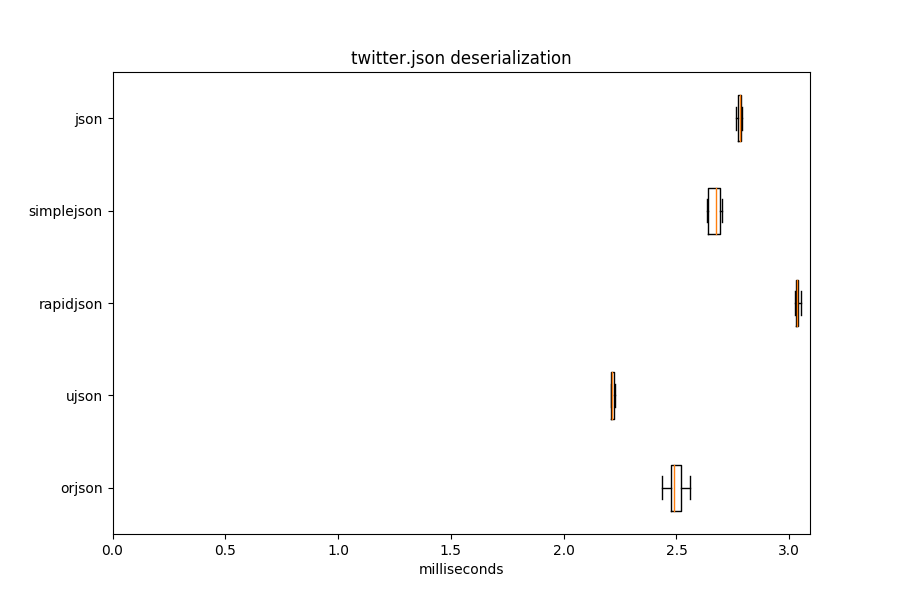
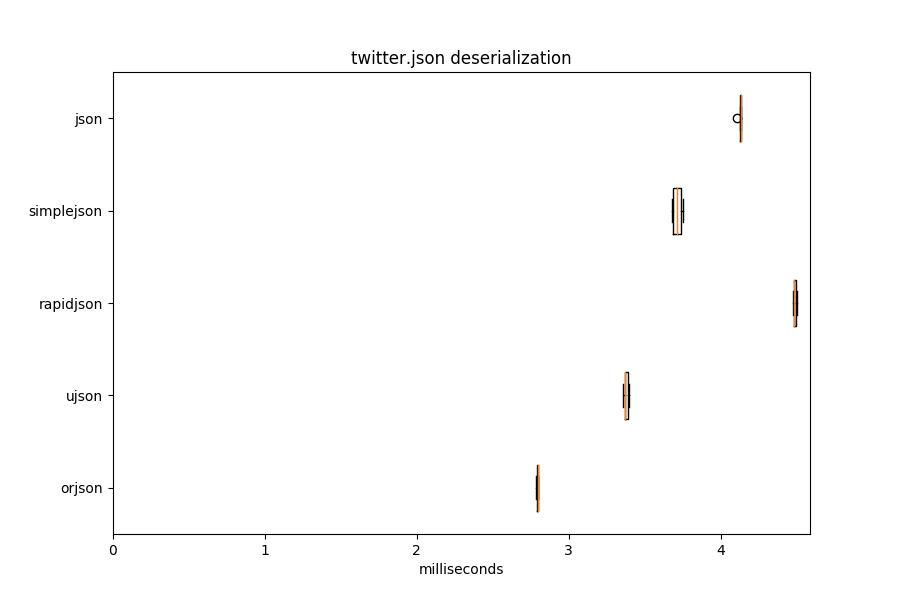
2.0.10

diff --git a/README.md b/README.md
@@ -4,9 +4,9 @@ orjson is a fast, correct JSON library for Python. It benchmarks as the
 fastest Python library for JSON and has comprehensive unit, integration, and
 interoperability tests.
 
-Its serialization performance is 2x to 3x the nearest
+Its serialization performance is 2.5x to 9.5x the nearest
 other library and 4x to 12x the standard library. Its deserialization
-performance is 0.9x to 1.1x the nearest other library and 1.1x to 2x
+performance is 1.2x to 1.3x the nearest other library and 1.4x to 2x
 the standard library.
 
 It differs in behavior from other Python JSON libraries in supporting
@@ -93,16 +93,6 @@ It raises `JSONEncodeError`  if a `tzinfo` on a datetime object is incorrect.
 `JSONEncodeError` is a subclass of `TypeError`. This is for compatibility
 with the standard library.
 
-
-```python
-import orjson
-
-try:
-    val = orjson.dumps(...)
-except orjson.JSONEncodeError:
-    raise
-```
-
 To serialize arbitrary types, specify `default` as a callable that returns
 a supported type. `default` may be a function, lambda, or callable class
 instance.
@@ -150,34 +140,6 @@ which the standard library allows, but is not valid JSON.
 `JSONDecodeError` is a subclass of `ValueError`. This is for
 compatibility with the standard library.
 
-```python
-import orjson
-
-try:
-    val = orjson.loads(...)
-except orjson.JSONDecodeError:
-    raise
-```
-
-### Comparison
-
-There are slight differences in output between libraries. The differences
-are not an issue for interoperability. Note orjson returns bytes. Its output
-is slightly smaller as well.
-
-```python
->>> import orjson, ujson, rapidjson, json
->>> data = {'bool': True, '🐈':'哈哈', 'int': 9223372036854775807, 'float': 1.337e+40}
->>> orjson.dumps(data)
-b'{"bool":true,"\xf0\x9f\x90\x88":"\xe5\x93\x88\xe5\x93\x88","int":9223372036854775807,"float":1.337e40}'
->>> ujson.dumps(data)
-'{"bool":true,"\\ud83d\\udc08":"\\u54c8\\u54c8","int":9223372036854775807,"float":1.337000000000000e+40}'
->>> rapidjson.dumps(data)
-'{"bool":true,"\\uD83D\\uDC08":"\\u54C8\\u54C8","int":9223372036854775807,"float":1.337e+40}'
->>> json.dumps(data)
-'{"bool": true, "\\ud83d\\udc08": "\\u54c8\\u54c8", "int": 9223372036854775807, "float": 1.337e+40}'
-```
-
 ### datetime
 
 orjson serializes `datetime.datetime` objects to
@@ -197,13 +159,13 @@ ISO 8601.
 ```python
 >>> import orjson, datetime, pendulum
 >>> orjson.dumps(
-    datetime.datetime.fromtimestamp(4123518902).replace(tzinfo=datetime.timezone.utc)
-)
-b'"2100-09-01T21:55:02+00:00"'
->>> orjson.dumps(
     datetime.datetime(2018, 12, 1, 2, 3, 4, 9, tzinfo=pendulum.timezone('Australia/Adelaide'))
 )
 b'"2018-12-01T02:03:04.000009+10:30"'
+>>> orjson.dumps(
+    datetime.datetime.fromtimestamp(4123518902).replace(tzinfo=datetime.timezone.utc)
+)
+b'"2100-09-01T21:55:02+00:00"'
 >>> orjson.dumps(
     datetime.datetime.fromtimestamp(4123518902)
 )
@@ -336,6 +298,8 @@ strings and arrays of integers, indented.
 * canada.json, 2.2MiB, coordinates of the Canadian border in GeoJSON
 format, containing floats and arrays, indented.
 
+### Latency
+
 ![alt text](doc/twitter_serialization.png "twitter.json serialization")
 ![alt text](doc/twitter_deserialization.png "twitter.json deserialization")
 ![alt text](doc/github_serialization.png "github.json serialization")
@@ -349,87 +313,138 @@ format, containing floats and arrays, indented.
 
 | Library    |   Median latency (milliseconds) |   Operations per second |   Relative (latency) |
 |------------|---------------------------------|-------------------------|----------------------|
-| orjson     |                            0.5  |                  1985.7 |                 1    |
-| ujson      |                            1.38 |                   722.5 |                 2.75 |
-| rapidjson  |                            1.59 |                   628   |                 3.16 |
-| simplejson |                            2.61 |                   382.5 |                 5.19 |
-| json       |                            2.64 |                   378.6 |                 5.24 |
+| orjson     |                            0.76 |                  1308.1 |                 1    |
+| ujson      |                            2.14 |                   468   |                 2.8  |
+| rapidjson  |                            2.14 |                   467.5 |                 2.8  |
+| simplejson |                            3.45 |                   289.1 |                 4.52 |
+| json       |                            3.6  |                   277.9 |                 4.71 |
 
 #### twitter.json deserialization
 
 | Library    |   Median latency (milliseconds) |   Operations per second |   Relative (latency) |
 |------------|---------------------------------|-------------------------|----------------------|
-| orjson     |                            2.49 |                   400.5 |                 1    |
-| ujson      |                            2.21 |                   451.1 |                 0.89 |
-| rapidjson  |                            3.03 |                   329.3 |                 1.22 |
-| simplejson |                            2.67 |                   374.7 |                 1.07 |
-| json       |                            2.78 |                   359.8 |                 1.12 |
+| orjson     |                            2.8  |                   357.9 |                 1    |
+| ujson      |                            3.37 |                   296.1 |                 1.21 |
+| rapidjson  |                            4.48 |                   222.9 |                 1.6  |
+| simplejson |                            3.71 |                   269.3 |                 1.33 |
+| json       |                            4.13 |                   242.3 |                 1.48 |
 
 #### github.json serialization
 
 | Library    |   Median latency (milliseconds) |   Operations per second |   Relative (latency) |
 |------------|---------------------------------|-------------------------|----------------------|
-| orjson     |                            0.06 |                 18040.3 |                 1    |
-| ujson      |                            0.13 |                  7501.6 |                 2.4  |
-| rapidjson  |                            0.16 |                  6298.6 |                 2.86 |
-| simplejson |                            0.3  |                  3348.9 |                 5.38 |
-| json       |                            0.25 |                  4042.6 |                 4.44 |
+| orjson     |                            0.08 |                 12430.9 |                 1    |
+| ujson      |                            0.21 |                  4774.2 |                 2.6  |
+| rapidjson  |                            0.23 |                  4350.4 |                 2.87 |
+| simplejson |                            0.44 |                  2290.5 |                 5.42 |
+| json       |                            0.36 |                  2786.8 |                 4.46 |
 
 #### github.json deserialization
 
 | Library    |   Median latency (milliseconds) |   Operations per second |   Relative (latency) |
 |------------|---------------------------------|-------------------------|----------------------|
-| orjson     |                            0.21 |                  4757.4 |                 1    |
-| ujson      |                            0.22 |                  4516.9 |                 1.05 |
-| rapidjson  |                            0.27 |                  3715.4 |                 1.28 |
-| simplejson |                            0.23 |                  4426.2 |                 1.08 |
-| json       |                            0.25 |                  4062.4 |                 1.18 |
+| orjson     |                            0.25 |                  3939.5 |                 1    |
+| ujson      |                            0.33 |                  3053.2 |                 1.29 |
+| rapidjson  |                            0.39 |                  2589.7 |                 1.52 |
+| simplejson |                            0.28 |                  3549.6 |                 1.11 |
+| json       |                            0.36 |                  2767.7 |                 1.43 |
 
 #### citm_catalog.json serialization
 
 | Library    |   Median latency (milliseconds) |   Operations per second |   Relative (latency) |
 |------------|---------------------------------|-------------------------|----------------------|
-| orjson     |                            0.8  |                  1246.4 |                 1    |
-| ujson      |                            2.64 |                   378.7 |                 3.29 |
-| rapidjson  |                            2.48 |                   403.8 |                 3.09 |
-| simplejson |                            9.6  |                   103.9 |                11.96 |
-| json       |                            5.36 |                   186.5 |                 6.68 |
+| orjson     |                            1.17 |                   856   |                 1    |
+| ujson      |                            3.65 |                   273   |                 3.11 |
+| rapidjson  |                            3.45 |                   274.1 |                 2.94 |
+| simplejson |                           14.67 |                    68.2 |                12.5  |
+| json       |                            8.19 |                   122.2 |                 6.98 |
 
 #### citm_catalog.json deserialization
 
 | Library    |   Median latency (milliseconds) |   Operations per second |   Relative (latency) |
 |------------|---------------------------------|-------------------------|----------------------|
-| orjson     |                            4.97 |                   201   |                 1    |
-| ujson      |                            4.7  |                   208.7 |                 0.95 |
-| rapidjson  |                            5.73 |                   174.7 |                 1.15 |
-| simplejson |                            6.08 |                   164.9 |                 1.22 |
-| json       |                            6.3  |                   158.4 |                 1.27 |
+| orjson     |                            5.62 |                   178   |                 1    |
+| ujson      |                            6.76 |                   148.3 |                 1.2  |
+| rapidjson  |                            7.65 |                   129   |                 1.36 |
+| simplejson |                            9.05 |                   110.4 |                 1.61 |
+| json       |                            8.24 |                   120.8 |                 1.47 |
 
 #### canada.json serialization
 
 | Library    |   Median latency (milliseconds) |   Operations per second |   Relative (latency) |
 |------------|---------------------------------|-------------------------|----------------------|
-| orjson     |                            4.05 |                   247.3 |                 1    |
+| orjson     |                            7.58 |                   138.6 |                 1    |
 | ujson      |                                 |                         |                      |
-| rapidjson  |                           44.17 |                    22.6 |                10.91 |
-| simplejson |                           62.31 |                    16.1 |                15.39 |
-| json       |                           47.49 |                    21.1 |                11.73 |
+| rapidjson  |                           73.02 |                    13.7 |                 9.64 |
+| simplejson |                          101.21 |                     9.8 |                13.36 |
+| json       |                           91.45 |                    11.5 |                12.07 |
 
 #### canada.json deserialization
 
 | Library    |   Median latency (milliseconds) |   Operations per second |   Relative (latency) |
 |------------|---------------------------------|-------------------------|----------------------|
-| orjson     |                           14.97 |                    66.8 |                 1    |
+| orjson     |                           22.89 |                    43.8 |                 1    |
 | ujson      |                                 |                         |                      |
-| rapidjson  |                           29.72 |                    33.7 |                 1.99 |
-| simplejson |                           28.54 |                    35.1 |                 1.91 |
-| json       |                           29.29 |                    34.2 |                 1.96 |
-
+| rapidjson  |                           47.18 |                    21.3 |                 2.06 |
+| simplejson |                           44.41 |                    22.5 |                 1.94 |
+| json       |                           43.72 |                    22.9 |                 1.91 |
 
 If a row is blank, the library did not serialize and deserialize the fixture without
 modifying it, e.g., returning different values for floating point numbers.
 
-This was measured using Python 3.7.3 on Linux with orjson 2.0.6, ujson 1.35,
-python-rapidson 0.7.0, and simplejson 3.16.0.
+### Memory
 
-The results can be reproduced using the `pybench` and `graph` scripts.
+orjson's memory usage when deserializing is similar to or lower than
+the standard library and other third-party libraries.
+
+This measures, in the first column, RSS after importing a library and reading
+the fixture, and in the second column, increases in RSS after repeatedly
+calling `loads()` on the fixture.
+
+#### twitter.json
+
+| Library    |   import, read() RSS (MiB) |   loads() increase in RSS (MiB) |
+|------------|----------------------------|---------------------------------|
+| orjson     |                       12.8 |                             2.7 |
+| ujson      |                       12.8 |                             4.6 |
+| rapidjson  |                       14.3 |                             6.4 |
+| json       |                       12.3 |                             2.5 |
+| simplejson |                       13   |                             2.8 |
+
+#### github.json
+
+| Library    |   import, read() RSS (MiB) |   loads() increase in RSS (MiB) |
+|------------|----------------------------|---------------------------------|
+| orjson     |                       12.3 |                             0.3 |
+| ujson      |                       12.4 |                             0.5 |
+| rapidjson  |                       13.8 |                             0.5 |
+| json       |                       11.7 |                             0.3 |
+| simplejson |                       12.4 |                             0.3 |
+
+#### citm_catalog.json
+
+| Library    |   import, read() RSS (MiB) |   loads() increase in RSS (MiB) |
+|------------|----------------------------|---------------------------------|
+| orjson     |                       13.9 |                             8.3 |
+| ujson      |                       13.8 |                            12   |
+| rapidjson  |                       15.5 |                            20.3 |
+| json       |                       13.4 |                            20.2 |
+| simplejson |                       14.1 |                            21.8 |
+
+#### canada.json
+
+| Library    |   import, read() RSS (MiB) |   loads() increase in RSS (MiB) |
+|------------|----------------------------|---------------------------------|
+| orjson     |                       16.5 |                            17.5 |
+| ujson      |                       16.4 |                            19.4 |
+| rapidjson  |                       17.8 |                            19.8 |
+| json       |                       16.1 |                            21.3 |
+| simplejson |                       16.5 |                            21.3 |
+
+### Reproducing
+
+The above was measured using Python 3.7.4 on Linux with orjson 2.0.10,
+ujson 1.35, python-rapidson 0.8.0, and simplejson 3.16.0.
+
+The latency results can be reproduced using the `pybench` and `graph`
+scripts. The memory results can be reproduced using the `pymem` script.

diff --git a/CHANGELOG.md b/CHANGELOG.md
@@ -1,5 +1,12 @@
 # Changelog
 
+## 2.0.19 - 2019-09-25
+
+### Changed
+
+- Performance improvements and lower memory usage in deserialization
+by creating only one `str` object for repeated map keys.
+
 ## 2.0.9 - 2019-09-22
 
 ### Changed
